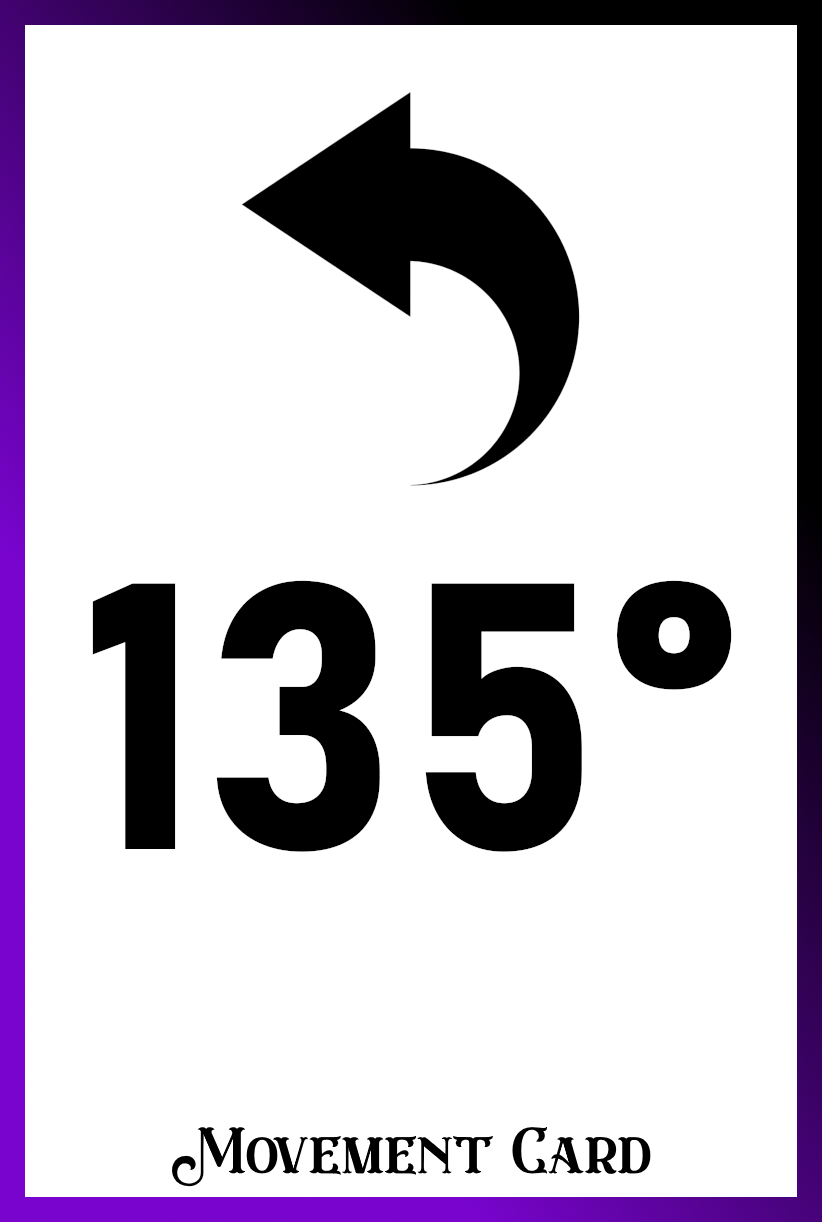
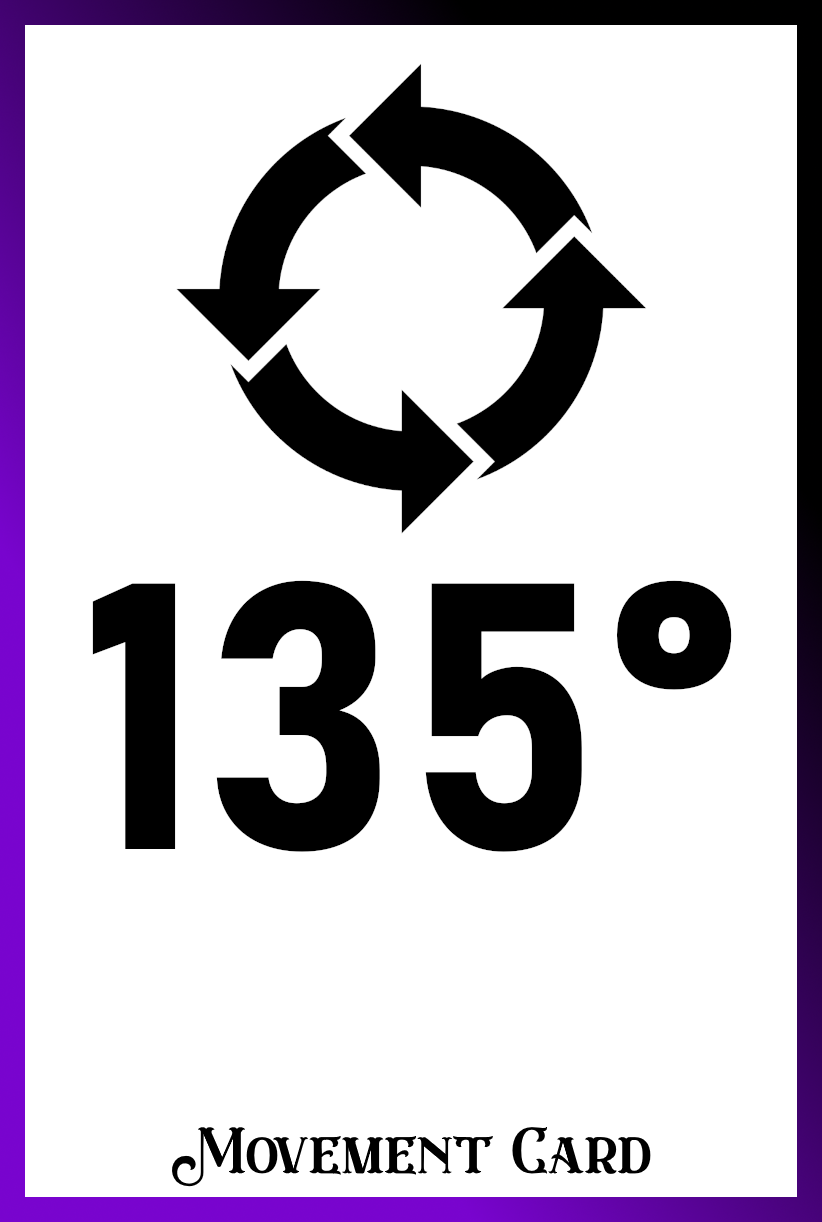
redesign turn cards

Changed region(s): [[0.2129, 0.0622, 0.7908, 0.4354]]

diff --git a/src/Rules/sections/Cards.js b/src/Rules/sections/Cards.js
@@ -22,7 +22,7 @@ function Cards() {
             <br />
             <Typography variant="h5">Direction movement cards</Typography>
             <img src="/cards/turnl2.png" className={classes.card} />
-            <img src="/cards/flip.png" className={classes.card} />
+            <img src="/cards/turnr4.png" className={classes.card} />
             <img src="/cards/forward2.png" className={classes.card} />
             <Typography>Turning cards turn the ship a specified amount, and forward cards move the ship in whatever direction the ship is facing. The ship is a lot harder to control using these.</Typography>
             <br />
@@ -33,7 +33,7 @@ function Cards() {
             <br />
             <Typography variant="h6">Persist</Typography>
             <img src="/cards/persist.png" className={classes.card} />
-            <Typography>The action of the last (non-special) movement card to be played is performed again. If no other movement cards have been played this turn, the last movement card from previous turns is played.</Typography>
+            <Typography>The action of the last (not including turning or special) movement card to be played is performed again. If no other movement cards have been played this turn, the last movement card from previous turns is played.</Typography>
             <br />
 
             <Typography variant="h5">Compass</Typography>

diff --git a/server/Match.js b/server/Match.js
@@ -428,12 +428,8 @@ class Match {
                     if (!(await this.moveShip(1))) return;
                 }
                 break;
-            case /turn[lr]{1}[123]{1}/.test(card):
+            case /turn[lr]{1}[1234]{1}/.test(card):
                 this.dir = ((this.dir + ((card[4] == 'r' ? 1 : -1) * Number(card[5])))+8)%8;
-                io.to(this.code).emit('dir', this.dir);
-                break;
-            case 'flip' == card:
-                this.dir = (this.dir+4)%8;
                 io.to(this.code).emit('dir', this.dir);
                 break;
             case 'relocate' == card:

diff --git a/src/Home/showMatchOptions.js b/src/Home/showMatchOptions.js
@@ -77,7 +77,7 @@ const cardsAvailable = [ //[name:string, non-removable:boolean]
     ['turnr1', true],
     ['turnr2', true],
     ['turnr3', true],
-    ['flip', true],
+    ['turnr4', true],
     ['persist', true],
     ['relocate', true],
     ['compass1', true],

diff --git a/server/index.js b/server/index.js
@@ -64,7 +64,7 @@ const cards = [
     ['turnr1', true],
     ['turnr2', true],
     ['turnr3', true],
-    ['flip', true],
+    ['turnr4', true],
     ['persist', true],
     ['relocate', true],
     ['compass1', true],
